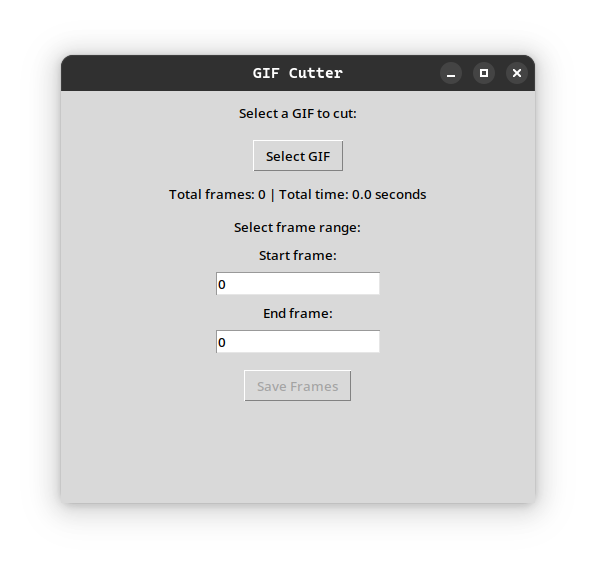
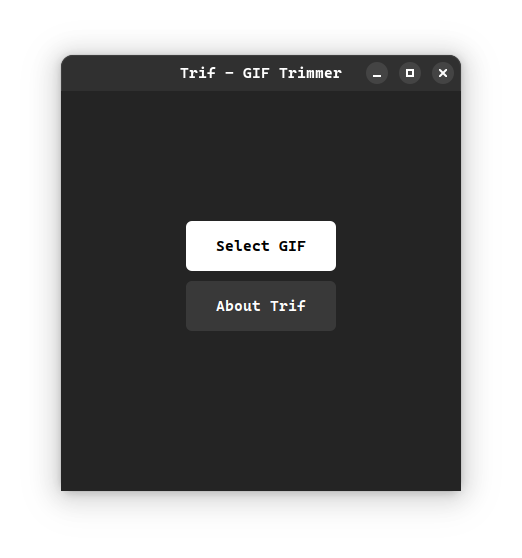
Improve GTK UI; Update screenshot.

diff --git a/trif.py b/trif.py
@@ -9,10 +9,11 @@ class Trif(Gtk.Window):
         Gtk.Window.__init__(self, title="Trif - GIF Trimmer")
         self.set_border_width(10)
         self.set_default_size(400, 400)
-
-        self.header_bar = ui.header_bar()
-        self.set_titlebar(self.header_bar)
         
+        # Toggle light/dark mode
+        settings = Gtk.Settings.get_default()
+        settings.set_property("gtk-application-prefer-dark-theme", False)
+
         self.home_box = ui.home_box()
         self.editor_box = ui.editor_box()
         self.add(self.home_box)
@@ -35,19 +36,52 @@ class Trif(Gtk.Window):
 
         self.gif_frames = []
         self.frame_durations = []
-    
-    def load_editor_ui(self):
-        self.remove(self.home_box)
-        self.add(self.editor_box)
+        
+        # Create a horizontal pane (split view)
+        pane = Gtk.Paned.new(Gtk.Orientation.HORIZONTAL)
+
+        # Create a sidebar (a vertical box to contain widgets)
+        sidebar = Gtk.Box(orientation=Gtk.Orientation.VERTICAL, spacing=10)
+
+        # Add some items to the sidebar (buttons in this case)
+
+        sidebar.pack_start(self.info_label, False, False, 0)
+        sidebar.pack_start(self.frame_grid, False, False, 0)
+        sidebar.pack_start(self.save_button, False, False, 0)
+        sidebar.pack_start(self.image, True, True, 0)
+
+        # Add the sidebar to the left side of the pane
+        pane.pack1(sidebar, resize=False, shrink=False)
+        
+        self.editor_box.pack_start(pane, False, False, 0)        
         self.editor_box.pack_start(self.info_label, False, False, 0)
         self.editor_box.pack_start(self.frame_grid, False, False, 0)
         self.editor_box.pack_start(self.save_button, False, False, 0)
         self.editor_box.pack_start(self.image, True, True, 0)
+        
+        main_content = Gtk.Label(label="Main Content Area")
+        main_content.set_hexpand(True)  # Allow the content to expand horizontally
+        main_content.set_vexpand(True)  # Allow the content to expand vertically
+
+        self.add(pane)
+        # self.editor_box.pack_start(pane, False, False, 0)
+
+    
+    def load_editor_ui(self):
+        self.remove(self.home_box)
+        self.add(self.editor_box)
         self.editor_box.show_all()
         
+        
+    def load_home_ui(self):
+        self.remove(self.editor_box)
+        self.add(self.home_box)
+        self.home_box.show_all()
+                
     
     def show_about_dialog(self, widget):
         pass
+
 
     def select_gif(self, widget):
         dialog = Gtk.FileChooserDialog(

diff --git a/ui.py b/ui.py
@@ -1,16 +1,8 @@
 from gi.repository import Gtk, GdkPixbuf
 
 
-def header_bar():
-    header_bar = Gtk.HeaderBar()
-    header_bar.set_show_close_button(True)
-    header_bar.props.title = "Trif"
-    header_bar.props.subtitle = "Trim your GIF by frames"
-    return header_bar
-
-
 def editor_box():
-    editor_box = Gtk.Box(orientation=Gtk.Orientation.VERTICAL, spacing=10)
+    editor_box = Gtk.Box(orientation=Gtk.Orientation.HORIZONTAL, spacing=10)
     editor_box.set_homogeneous(False)
     editor_box.set_margin_top(20)
     editor_box.set_margin_bottom(20)
@@ -22,7 +14,7 @@ def editor_box():
 def home_box():
     home_box = Gtk.Box(orientation=Gtk.Orientation.VERTICAL, spacing=10)
     home_box.set_homogeneous(False)
-    home_box.set_margin_top(140)
+    home_box.set_margin_top(120)
     home_box.set_margin_bottom(20)
     home_box.set_margin_start(20)
     home_box.set_margin_end(20)
@@ -46,8 +38,22 @@ def info_label():
 
 
 def select_button(trif):
-    # Initial button to select GIF
     select_button = Gtk.Button(label="Select GIF")
+    
+    # Initial button to select GIF
+    css_provider = Gtk.CssProvider()
+    css = """
+    button {
+        background-color: white;
+        color: black;
+    }
+    """
+    css_provider.load_from_data(css.encode())
+    
+    # Create a style context and add the provider
+    style_context = select_button.get_style_context()
+    style_context.add_provider(css_provider, Gtk.STYLE_PROVIDER_PRIORITY_USER)
+
     select_button.set_size_request(150, 50)  # Set specific size for button
     select_button.connect("clicked", trif.select_gif)
     select_button.set_halign(Gtk.Align.CENTER)  # Center the button
